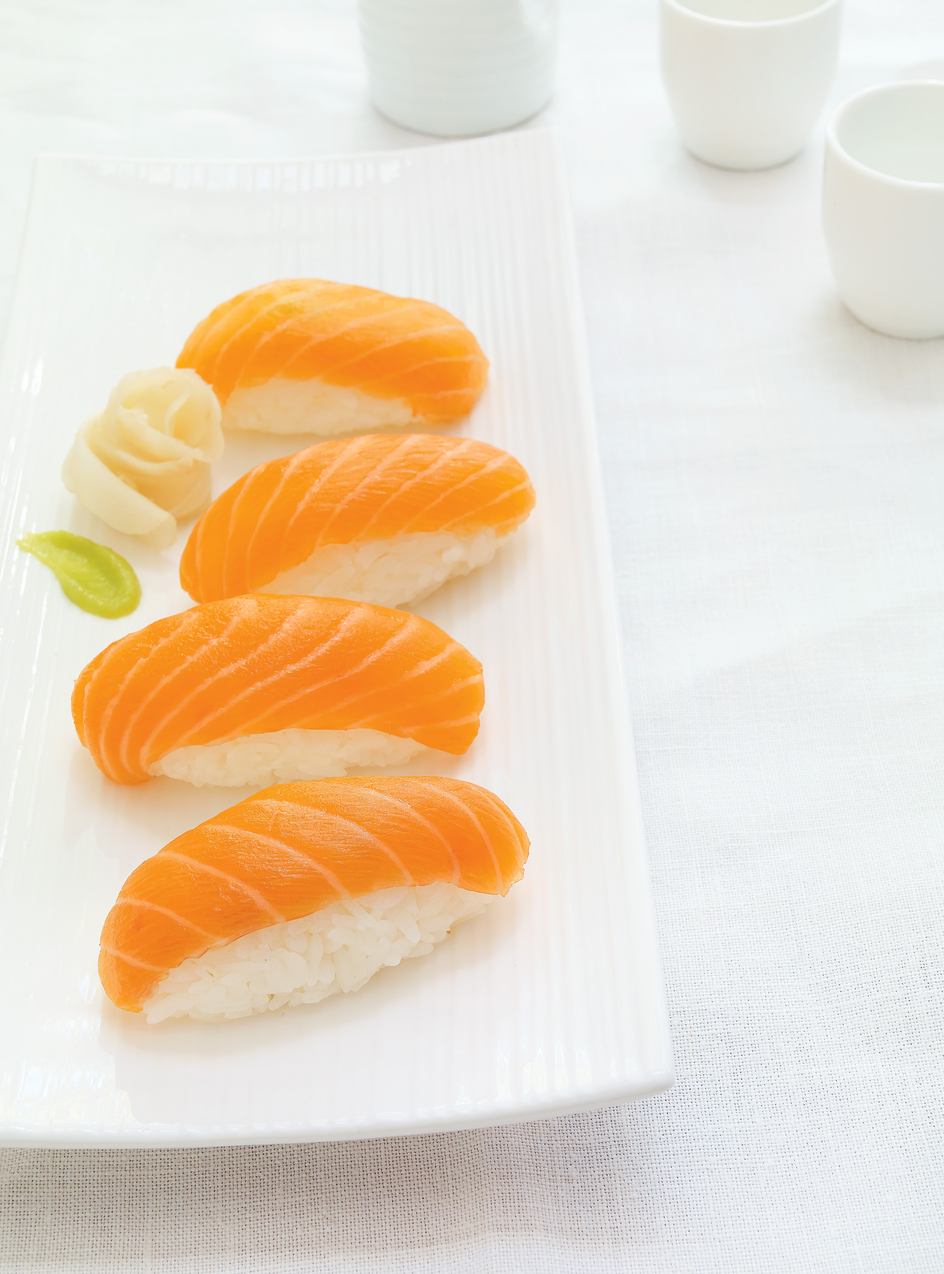
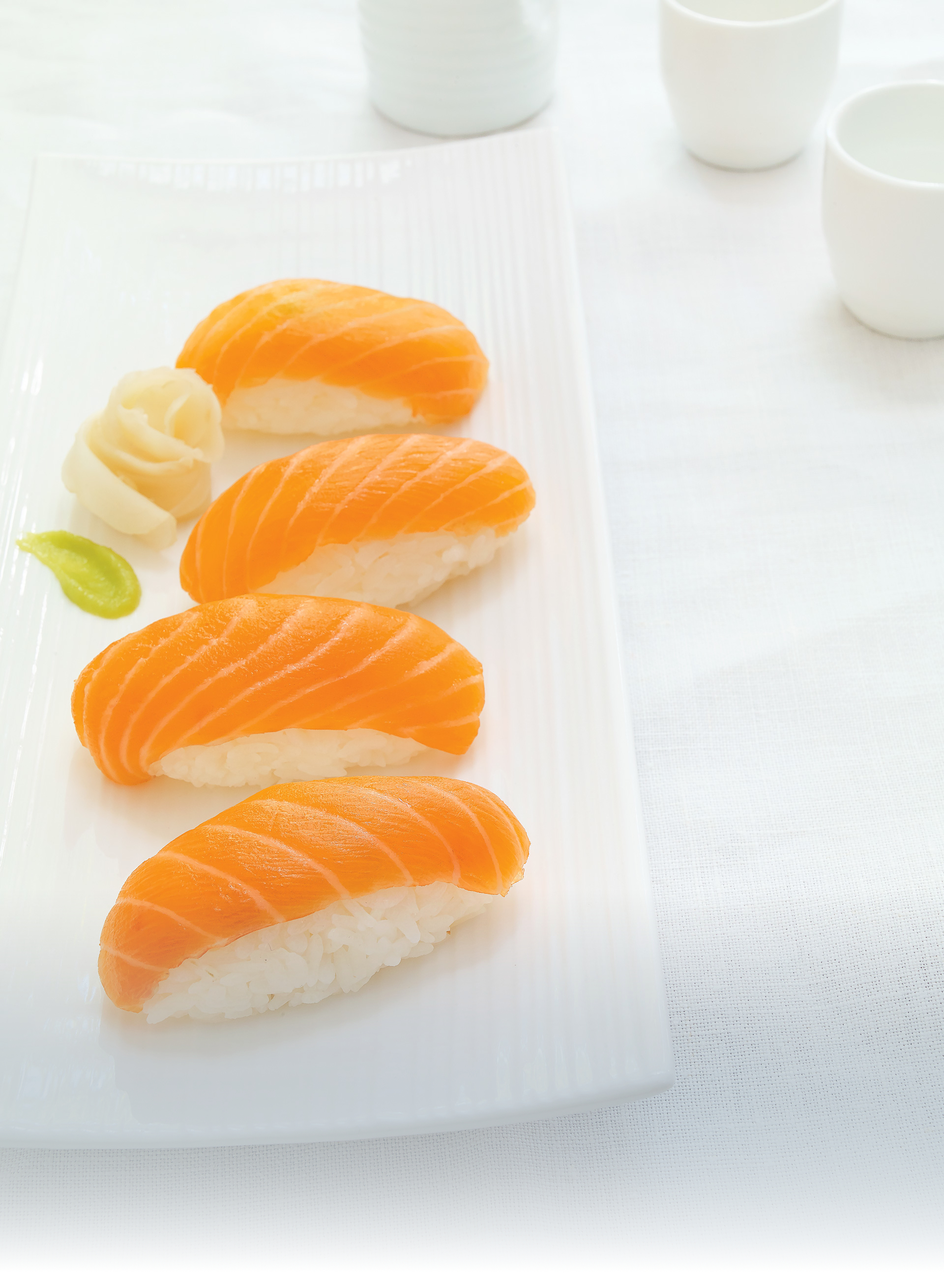
added footer and fixed orientation

Changed region(s): [[0.0, 0.7188, 1.0, 1.0], [0.9375, 0.9688, 1.0, 1.0]]

diff --git a/index.js b/index.js
@@ -1,6 +1,6 @@
 // home page
 let p1 = 'Sushi is a Japanese dish of prepared vinegared rice, usually with some sugar and salt, accompanied by a variety of ingredients, such as seafood, often raw, and vegetables. Styles of sushi and its presentation vary widely, but the one key ingredient is "sushi rice", also referred to as shari or sumeshi.'
-let p2 = "The inventor of modern sushi is believed to be Hanaya Yohei, who invented nigiri-zushi, a type of sushi most known today, in which seafood is placed on hand-pressed vinegared rice, around 1824 in the Edo period (1603 – 1867). It was the fast food of the chōnin class in the Edo period."
+let p2 = "The inventor of modern sushi is believed to be Hanaya Yohei, who invented nigiri, a type of sushi most known today, in which seafood is placed on hand-pressed vinegared rice, around 1824 in the Edo period (1603-1867). It was the fast food of the chōnin class in the Edo period."
 let p3 = "Sushi is traditionally made with medium-grain white rice, though it can be prepared with brown rice or short-grain rice. It is very often prepared with seafood, such as squid, eel, yellowtail, salmon, tuna or imitation crab meat. Many types of sushi are vegetarian. It is often served with pickled ginger (gari), wasabi, and soy sauce. Daikon radish or pickled daikon (takuan) are popular garnishes for the dish."
 let p4 = "Sushi is sometimes confused with sashimi, a similar dish in Japanese cuisine that consists of thinly sliced raw fish or occasionally meat."
 let list1 = [p1,p2,p3,p4];
@@ -18,10 +18,10 @@ for (let i = 0; i < list1.length; i++) {
 }
 
 // history
-let p5 = 'A dish known as narezushi, stored in fermented rice for possibly months at a time, has been cited as one of the early influences for the Japanese practice of applying rice on raw fish. The fish was fermented with rice vinegar, salt, and rice, after which the rice was discarded. The first mention of sushi is in a Chinese dictionary thought to be from the 4th Century, in this instance referring to salted fish that had been placed in cooked or steamed rice, which caused it to undergo a fermentation process. Fermentation methods following similar logic in other Asian rice cultures include prahok , pla ra, burong isda, sikhae, and amazake.'
-let p6 = 'The lacto-fermentation of the rice prevents the fish from spoiling. When wet-field rice cultivation was introduced during the Yayoi period, lakes and rivers would flood during the rainy season, and fish would get caught in the rice paddy fields. Pickling was a way to preserve the excess fish and guarantee food for the following months, and narezushi became an important source of protein for Japanese consumers. The term sushi literally means "sour-tasting", as the overall dish has a sour and umami or savory taste. The term comes from an antiquated shi terminal-form conjugation, no longer used in other contexts, of the adjectival verb sui, resulting in the term sushi. Narezushi still exists as a regional specialty, notably as funa-zushi from Shiga Prefecture. Vinegar was first added to the preparation of narezushi in the Muromachi period (1336 – 1573) for the sake of enhancing both taste and preservation. In addition to increasing the rice\'s sourness, the vinegar significantly increased the dish\'s longevity, causing the fermentation process to be shortened and eventually abandoned. The primitive sushi would be further developed in Osaka, where over several centuries, it became oshi-zushi or hako-zushi; in this preparation, the seafood and rice were pressed into shape with wooden (typically bamboo) molds.'
-let p7 = 'It was not until the Edo period (1603 – 1868) that fresh fish was served over vinegared rice and nori. The particular style of today\'s nigirizushi became popular in Edo (contemporary Tokyo) in the 1820s or 1830s. One common story of nigirizushi\'s origins is of the chef Hanaya Yohei (1799–1858), who invented or perfected the technique in 1824 at his shop in Ryōgoku.[11] The dish was originally termed Edomae zushi as it used freshly caught fish from the Edo-mae (Edo or Tokyo Bay); the term Edomae nigirizushi is still used today as a by-word for quality sushi, regardless of its ingredients\' origins.'
-let p8 = 'The earliest written mention of sushi in English described in the Oxford English Dictionary is in an 1893 book, A Japanese Interior, where it mentions sushi as "a roll of cold rice with fish, sea-weed, or some other flavoring". There is an earlier mention of sushi in James Hepburn\'s Japanese–English dictionary from 1873, and an 1879 article on Japanese cookery in the journal Notes and Queries.'
+let p5 = 'A dish known as nare, stored in fermented rice for possibly months at a time, has been cited as one of the early influences for the Japanese practice of applying rice on raw fish. The fish was fermented with rice vinegar, salt, and rice, after which the rice was discarded. The first mention of sushi is in a Chinese dictionary thought to be from the 4th Century, in this instance referring to salted fish that had been placed in cooked or steamed rice, which caused it to undergo a fermentation process. Fermentation methods following similar logic in other Asian rice cultures include prahok , pla ra, burong isda, sikhae, and amazake.'
+let p6 = 'The lacto-fermentation of the rice prevents the fish from spoiling. When wet-field rice cultivation was introduced during the Yayoi period, lakes and rivers would flood during the rainy season, and fish would get caught in the rice paddy fields. Pickling was a way to preserve the excess fish and guarantee food for the following months, and nare became an important source of protein for Japanese consumers. The term sushi literally means "sour-tasting", as the overall dish has a sour and umami or savory taste. The term comes from an antiquated shi terminal-form conjugation, no longer used in other contexts, of the adjectival verb sui, resulting in the term sushi. Nare still exists as a regional specialty, notably as funa from Shiga Prefecture. Vinegar was first added to the preparation of nare in the Muromachi period (1336-1573) for the sake of enhancing both taste and preservation. In addition to increasing the rice\'s sourness, the vinegar significantly increased the dish\'s longevity, causing the fermentation process to be shortened and eventually abandoned. The primitive sushi would be further developed in Osaka, where over several centuries, it became oshi or hako; in this preparation, the seafood and rice were pressed into shape with wooden (typically bamboo) molds.'
+let p7 = 'It was not until the Edo period (1603-1868) that fresh fish was served over vinegared rice and nori. The particular style of today\'s nigiri became popular in Edo (contemporary Tokyo) in the 1820s or 1830s. One common story of nigiri\'s origins is of the chef Hanaya Yohei (1799-1858), who invented or perfected the technique in 1824 at his shop in Ryōgoku. The dish was originally termed Edomae as it used freshly caught fish from the Edo-mae (Edo or Tokyo Bay); the term Edomae nigiri is still used today as a by-word for quality sushi, regardless of its ingredients\' origins.'
+let p8 = 'The earliest written mention of sushi in English described in the Oxford English Dictionary is in an 1893 book, A Japanese Interior, where it mentions sushi as "a roll of cold rice with fish, sea-weed, or some other flavoring". There is an earlier mention of sushi in James Hepburn\'s Japanese-English dictionary from 1873, and an 1879 article on Japanese cookery in the journal Notes and Queries.'
 let list2 = [p5,p6,p7,p8];
 let historyPage = document.getElementsByClassName('content-wrapper')[1];
 for (let i = 0; i < list2.length; i++) {
@@ -37,26 +37,26 @@ for (let i = 0; i < list2.length; i++) {
 }
 
 // types
-let p9 = "The common ingredient in all types of sushi is vinegared sushi rice. Fillings, toppings, condiments, and preparation vary widely. Due to rendaku consonant mutation, sushi is pronounced with zu instead of su when a prefix is attached, as in nigirizushi."
+let p9 = "The common ingredient in all types of sushi is vinegared sushi rice. Fillings, toppings, condiments, and preparation vary widely. Due to rendaku consonant mutation, sushi is pronounced with zu instead of su when a prefix is attached, as in nigiri."
 let h1 = "<h2>Chirashi</h2>"
-let p10 = "Chirashizushi serves the rice in a bowl and tops it with a variety of raw fish and vegetable garnishes. It is popular because it is filling, fast, and easy to make. It is eaten annually on Hinamatsuri in March and Kodomonohi in May."
+let p10 = "Chirashi serves the rice in a bowl and tops it with a variety of raw fish and vegetable garnishes. It is popular because it is filling, fast, and easy to make. It is eaten annually on Hinamatsuri in March and Kodomonohi in May."
 let h2 = "<h2>Inari</h2>"
-let p11 = "Inarizush is a pouch of fried tofu typically filled with sushi rice alone. According to Shinto lore, inarizushi is named after the god Inari. Foxes, messengers of Inari, are believed to have a fondness for fried tofu, and an inarizushi roll has pointed corners that resemble fox ears."
+let p11 = "Inarizush is a pouch of fried tofu typically filled with sushi rice alone. According to Shinto lore, inari is named after the god Inari. Foxes, messengers of Inari, are believed to have a fondness for fried tofu, and an inari roll has pointed corners that resemble fox ears."
 let p12 = "Regional variations include pouches made of a thin omelette instead of tofu. It should not be confused with inari maki, a roll filled with flavored fried tofu."
-let p13 = "Cone sushi is a variant of inarizushi originating in Hawaii that may include green beans, carrots, or gobo along with rice, wrapped in a triangular abura-age piece. It is often sold in okazu-ya (Japanese delis) and as a component of bento boxes."
+let p13 = "Cone sushi is a variant of inari originating in Hawaii that may include green beans, carrots, or gobo along with rice, wrapped in a triangular abura-age piece. It is often sold in okazu-ya (Japanese delis) and as a component of bento boxes."
 let h3 = "<h2>Maki</h2>"
-let p14 = "Makizushi, norimaki or makimono is a cylindrical piece formed with the help of a mat known as a makisu. Makizushi is generally wrapped in nori (seaweed) but is occasionally wrapped in a thin omelette, soy paper, cucumber, or shiso (perilla) leaves. Makizushi is often cut into six or eight pieces, constituting a single roll order. Short-grain white rice is usually used, although short-grain brown rice, like olive oil on nori, is now becoming more widespread among the health-conscious. Rarely, sweet rice is mixed in makizushi rice."
-let p15 = "Nowadays, the rice in makizushi can be many kinds of black rice, boiled rice, and cereals. Besides the common ingredients listed above, some varieties may include cheese, spicy cooked squid, yakiniku, kamaboko, lunch meat, sausage, bacon or spicy tuna. The nori may be brushed with sesame oil or sprinkled with sesame seeds. In a variation, sliced pieces of makizushi may be lightly fried with egg coating."
+let p14 = "Maki, norimaki or makimono is a cylindrical piece formed with the help of a mat known as a makisu. Maki is generally wrapped in nori (seaweed) but is occasionally wrapped in a thin omelette, soy paper, cucumber, or shiso (perilla) leaves. Maki is often cut into six or eight pieces, constituting a single roll order. Short-grain white rice is usually used, although short-grain brown rice, like olive oil on nori, is now becoming more widespread among the health-conscious. Rarely, sweet rice is mixed in maki rice."
+let p15 = "Nowadays, the rice in maki can be many kinds of black rice, boiled rice, and cereals. Besides the common ingredients listed above, some varieties may include cheese, spicy cooked squid, yakiniku, kamaboko, lunch meat, sausage, bacon or spicy tuna. The nori may be brushed with sesame oil or sprinkled with sesame seeds. In a variation, sliced pieces of maki may be lightly fried with egg coating."
 let h4 = "<h2>Modern-Nare</h2>"
-let p16 = "Narezushi is a traditional form of fermented sushi. Skinned and gutted fish are stuffed with salt, placed in a wooden barrel, doused with salt again, then weighed down with a heavy tsukemonoishi (pickling stone). As days pass, water seeps out and is removed. After six months, this sushi can be eaten, remaining edible for another six months or more."
-let p17 = "The most famous variety of narezushi are the ones offered as a specialty dish of Shiga Prefecture, particularly the funa-zushi made from fish of the crucian carp genus, the authentic version of which calls for the use of nigorobuna, a particular locally differentiated variety of wild goldfish endemic to Lake Biwa."
+let p16 = "Nare is a traditional form of fermented sushi. Skinned and gutted fish are stuffed with salt, placed in a wooden barrel, doused with salt again, then weighed down with a heavy tsukemonoishi (pickling stone). As days pass, water seeps out and is removed. After six months, this sushi can be eaten, remaining edible for another six months or more."
+let p17 = "The most famous variety of nare are the ones offered as a specialty dish of Shiga Prefecture, particularly the funa made from fish of the crucian carp genus, the authentic version of which calls for the use of nigorobuna, a particular locally differentiated variety of wild goldfish endemic to Lake Biwa."
 let h5 = "<h2>Nigiri</h2>"
-let p18 = "Nigirizushi consists of an oblong mound of sushi rice that a chef typically presses between the palms of the hands to form an oval-shaped ball and a topping (the neta) draped over the ball. It is usually served with a bit of wasabi; toppings are typically fish such as salmon, tuna, or other seafood. Certain toppings are typically bound to the rice with a thin strip of nori, most commonly octopus (tako), freshwater eel (unagi), sea eel (anago), squid (ika), and sweet egg (tamago)."
-let p19 = "Gunkanmaki [ja] is a special type of nigirizushi: an oval, hand-formed clump of sushi rice that has a strip of nori wrapped around its perimeter to form a vessel that is filled with some soft, loose or fine-chopped ingredient that requires the confinement of nori such as roe, nattō, oysters, uni (sea urchin roe), sweetcorn with mayonnaise, scallops, and quail eggs. Gunkan-maki was invented at the Ginza Kyubey restaurant in 1941; its invention significantly expanded the repertoire of soft toppings used in sushi."
-let p20 = "Temarizushi is a style of sushi made by pressing rice and fish into a ball-shaped form by hand using a plastic wrap."
+let p18 = "Nigiri consists of an oblong mound of sushi rice that a chef typically presses between the palms of the hands to form an oval-shaped ball and a topping (the neta) draped over the ball. It is usually served with a bit of wasabi; toppings are typically fish such as salmon, tuna, or other seafood. Certain toppings are typically bound to the rice with a thin strip of nori, most commonly octopus (tako), freshwater eel (unagi), sea eel (anago), squid (ika), and sweet egg (tamago)."
+let p19 = "Gunkanmaki [ja] is a special type of nigiri: an oval, hand-formed clump of sushi rice that has a strip of nori wrapped around its perimeter to form a vessel that is filled with some soft, loose or fine-chopped ingredient that requires the confinement of nori such as roe, nattō, oysters, uni (sea urchin roe), sweetcorn with mayonnaise, scallops, and quail eggs. Gunkan-maki was invented at the Ginza Kyubey restaurant in 1941; its invention significantly expanded the repertoire of soft toppings used in sushi."
+let p20 = "Temari is a style of sushi made by pressing rice and fish into a ball-shaped form by hand using a plastic wrap."
 let h6 = "<h2>Oshi</h2>"
-let p21 = "Oshizushi, also known as hako-zushi, is a pressed sushi from the Kansai region, a favorite and specialty of Osaka. A block-shaped piece is formed using a wooden mold, called an oshibako. The chef lines the bottom of the oshibako with the toppings, covers them with sushi rice, and then presses the mold's lid to create a compact, rectilinear block. The block is removed from the mold and then cut into bite-sized pieces. Particularly famous is battera or saba zushi. In oshizushi, all the ingredients are either cooked or cured, and raw fish is never used."
-let p22 = "Oshizushi wrapped in persimmon leaves, a specialty of Nara, is known as kakinohazushi."
+let p21 = "Oshi, also known as hako, is a pressed sushi from the Kansai region, a favorite and specialty of Osaka. A block-shaped piece is formed using a wooden mold, called an oshibako. The chef lines the bottom of the oshibako with the toppings, covers them with sushi rice, and then presses the mold's lid to create a compact, rectilinear block. The block is removed from the mold and then cut into bite-sized pieces. Particularly famous is battera or saba. In oshi, all the ingredients are either cooked or cured, and raw fish is never used."
+let p22 = "Oshiz wrapped in persimmon leaves, a specialty of Nara, is known as kakinoha."
 let list3 = [p9,h1,p10,h2,p11,p12,p13,h3,p14,p15,h4,p16,p17,h5,p18,p19,p20,h6,p21,p22];
 let typesPage = document.getElementsByClassName('content-wrapper')[2];
 for (let i = 0; i < list3.length; i++) {
@@ -73,7 +73,7 @@ for (let i = 0; i < list3.length; i++) {
 
 // west
 let p23 = "The increasing popularity of sushi worldwide has resulted in variations typically found in the Western world but rarely in Japan. A notable exception to this is the use of salmon. The Japanese have eaten salmon since prehistory; however, caught salmon in nature often contains parasites and must be cooked or cured for its lean meat to be edible. On the other side of the world, in the 1960s and 1970s, Norwegian entrepreneurs started experimenting with aquaculture farming. The big breakthrough was when they figured out how to raise salmon in net pens in the sea. Being farm-raised, the Atlantic salmon reportedly showed advantages over the Pacific salmon, such as no parasites, easy animal capture, and could be grown with higher fat content. With government subsidies and improved techniques, they were so successful in raising fatty and parasite-free salmon they ended up with a surplus. Norway has a small population and limited market; therefore, they looked to other countries to export their salmon. The first Norwegian salmon was imported into Japan in 1980, accepted conventionally, for grilling, not for sushi. Salmon had already been consumed in North America as an ingredient in sushi as early as the 1970s. Salmon sushi did not become widely accepted in Japan until a successful marketing partnership in the late 1980s between a Norwegian businessman tasked with helping the Norwegian salmon industry and the Japanese food supplier Nichirei."
-let p24 = "Other sushi creations to suit the Western palate were initially fueled by the invention of the California roll (a norimaki with crab or imitation crab, cucumber, and avocado). A wide variety of popular rolls (norimaki and uramaki) have evolved since. 'Norway roll' is another variant of uramakizushi filled with tamago (omelette), imitation crab and cucumber, rolled with shiso leaf and nori, topped with slices of Norwegian salmon, garnished with lemon and mayonnaise."
+let p24 = "Other sushi creations to suit the Western palate were initially fueled by the invention of the California roll (a norimaki with crab or imitation crab, cucumber, and avocado). A wide variety of popular rolls (norimaki and uramaki) have evolved since. 'Norway roll' is another variant of uramaki filled with tamago (omelette), imitation crab and cucumber, rolled with shiso leaf and nori, topped with slices of Norwegian salmon, garnished with lemon and mayonnaise."
 let h7 = "<h2>Uramaki</h2>"
 let p25 = "Uramaki is a medium-sized cylindrical style of sushi with two or more fillings and was developed as a result of the creation of the California roll, as a method originally meant to hide the nori. Uramaki differs from other makimono because the rice is on the outside and the nori inside. The filling is surrounded by nori, then a layer of rice, and optionally an outer coating of some other ingredients such as roe or toasted sesame seeds. It can be made with different fillings, such as tuna, crab meat, avocado, mayonnaise, cucumber, or carrots."
 let p26 = "Examples of variations include the rainbow roll (an inside-out topped with thinly sliced maguro, hamachi, ebi, sake and avocado) and the caterpillar roll (an inside-out topped with thinly sliced avocado). Also commonly found is the \"rock and roll\" (an inside-out roll with barbecued freshwater eel and avocado with toasted sesame seeds on the outside)."
@@ -84,7 +84,7 @@ let p29 = "Multiple-filling rolls inspired by futomaki are a more popular type o
 let p30 = "Per Food and Drug Administration regulations, raw fish served in the United States must be frozen before serving to kill parasites."
 let p31 = "Since rolls are often made to order, it is not unusual for the customer to specify the exact ingredients desired (e.g., salmon roll, cucumber roll, avocado roll, tuna roll, shrimp or tuna tempura roll, etc.)."
 let h9 = "<h2>Canada</h2>"
-let p32 = "Many of the styles seen in the United States are also seen in Canada and their own. Doshi (a portmanteau of sushi and donut) is a donut-shaped rice ball on a deep-fried crab or imitation crab cake topped with sushi ingredients.[67] Maki Poutine is similar to makizushi in style except it is topped with cheese curds and gravy and contains duck confit, more cheese curds, and sweet potato tempura.[68] Sushi cake is made of crab meat, avocado, shiitake mushroom, salmon, spicy tuna, and tobiko and served on sushi rice then torched with spicy mayo, BBQ sauce, balsamic reduction, and dotted with caper and garlic chips. Sushi pizza is deep fried rice or crab/imitation crab cake topped with mayo and various sushi ingredients."
+let p32 = "Many of the styles seen in the United States are also seen in Canada and their own. Doshi (a portmanteau of sushi and donut) is a donut-shaped rice ball on a deep-fried crab or imitation crab cake topped with sushi ingredients. Maki Poutine is similar to maki in style except it is topped with cheese curds and gravy and contains duck confit, more cheese curds, and sweet potato tempura. Sushi cake is made of crab meat, avocado, shiitake mushroom, salmon, spicy tuna, and tobiko and served on sushi rice then torched with spicy mayo, BBQ sauce, balsamic reduction, and dotted with caper and garlic chips. Sushi pizza is deep fried rice or crab/imitation crab cake topped with mayo and various sushi ingredients."
 let h10 = "<h2>Mexico/Western-U.S.</h2>"
 let p33 = "Sinaloan sushi originated in Sinaloa, Mexico and has been available in the Western United States since 2013."
 let list4 = [p23,p24,h7,p25,p26,p27,p28,h8,p29,p30,p31,h9,p32,h10,p33];
@@ -111,7 +111,7 @@ let h12 = "<h2>Nori</h2>"
 let p38 = "The dark green seaweed wrappers used in makimono are called nori. Nori is a type of algae traditionally cultivated in the harbors of Japan. Originally, algae was scraped from dock pilings, rolled out into thin, edible sheets, and dried in the sun, similar to making rice paper. Today, the commercial product is farmed, processed, toasted, packaged, and sold in sheets."
 let p39 = "The size of a nori sheet influences the size of makimono. A full-size sheet produces futomaki, and a half produces hosomaki and temaki. To produce gunkan and some other makimono, an appropriately-sized piece of nori is cut from a whole sheet."
 let p40 = "Nori by itself is an edible snack and is available with salt or flavored with teriyaki sauce. The flavored variety, however, tends to be of lesser quality and is not suitable for sushi."
-let p41 = "When making fukusazushi, a paper-thin omelette may replace a sheet of nori as the wrapping. The omelette is traditionally made on a rectangular omelette pan, known as a makiyakinabe, and used to form the pouch for the rice and fillings."
+let p41 = "When making fukusa, a paper-thin omelette may replace a sheet of nori as the wrapping. The omelette is traditionally made on a rectangular omelette pan, known as a makiyakinabe, and used to form the pouch for the rice and fillings."
 let h13 = "<h2>Gu</h2>"
 let p42 = "The ingredients used inside sushi are called gu and are, typically, varieties of fish. For culinary, sanitary, and aesthetic reasons, the minimum quality and freshness of fish to be eaten raw must be superior to that of fish which is to be cooked. Sushi chefs are trained to recognize important attributes, including smell, color, firmness, and freedom from parasites that may go undetected in a commercial inspection. Commonly used fish are tuna (maguro, shiro-maguro), Japanese amberjack, yellowtail (hamachi), snapper (kurodai), mackerel (saba), and salmon (sake). The most valued sushi ingredient is toro, the fatty cut of the fish. This comes in a variety of ōtoro (often from the bluefin species of tuna) and chūtoro, meaning \"middle toro\", implying that it is halfway into the fattiness between toro and the regular cut. Aburi style refers to nigiri sushi, where the fish is partially grilled (topside) and partially raw. Most nigiri sushi will have completely raw toppings, called neta."
 let p43 = "Other seafoods such as squid (ika), eel (anago and unagi), pike conger (hamo), octopus (tako), shrimp (ebi and amaebi), clam (mirugai, aoyagi and akagai), fish roe (ikura, masago, kazunoko and tobiko), sea urchin (uni), crab (kani), and various kinds of shellfish (abalone, prawn, scallop) are the most popular seafoods in sushi. Oysters are less common, as the taste is thought to not go well with the rice. Kani kama, or imitation crab stick, is commonly substituted for real crab, most notably in California rolls."
@@ -119,7 +119,7 @@ let p44 = "Pickled daikon radish (takuan) in shinko maki, pickled vegetables (ts
 let p45 = "Tofu, eggs (in the form of slightly sweet, layered omelette called tamagoyaki), and raw quail eggs (as a gunkan-maki topping) are also common."
 let h14 = "<h2>Condiments</h2>"
 let p46 = "Sushi is commonly eaten with condiments. Sushi may be dipped in shōyu (soy sauce), and is usually flavored with wasabi, a piquant paste made from the grated stem of the Wasabia japonica plant. Japanese-style mayonnaise is a common condiment in Japan on salmon, pork, and other sushi cuts."
-let p47 = "The traditional grating tool for wasabi is a sharkskin grater or samegawa oroshi. An imitation wasabi (seiyo-wasabi), made from horseradish, mustard powder, and green dye, is common. It is found at lower-end kaiten-zushi restaurants, in bento box sushi, and at most restaurants outside Japan. If manufactured in Japan, it may be labelled \"Japanese Horseradish\". The spicy compound in both true and imitation wasabi is allyl isothiocyanate, which has well-known anti-microbial properties. However, true wasabi may contain some other antimicrobials as well."
+let p47 = "The traditional grating tool for wasabi is a sharkskin grater or samegawa oroshi. An imitation wasabi (seiyo-wasabi), made from horseradish, mustard powder, and green dye, is common. It is found at lower-end kaiten restaurants, in bento box sushi, and at most restaurants outside Japan. If manufactured in Japan, it may be labelled \"Japanese Horseradish\". The spicy compound in both true and imitation wasabi is allyl isothiocyanate, which has well-known anti-microbial properties. However, true wasabi may contain some other antimicrobials as well."
 let p48 = "Gari (sweet, pickled ginger) is eaten in between sushi courses to both cleanse the palate and aid in digestion. In Japan, green tea (ocha) is invariably served together with sushi. Better sushi restaurants often use a distinctive premium tea known as mecha. In sushi vocabulary, green tea is known as agari."
 let p49 = "Sushi may be garnished with gobo, grated daikon, thinly-sliced vegetables, carrots, radishes, and cucumbers that have been shaped to look like flowers, real flowers, or seaweed salad."
 let p50 = "When closely arranged on a tray, different pieces are often separated by green strips called baran or kiri-zasa. These dividers prevent the flavors of neighboring pieces of sushi from mixing and help to achieve an attractive presentation. Originally, these were cut leaves from the Aspidistra elatior and Sasa veitchii plants, respectively. Using actual leaves had the added benefit of releasing antimicrobial phytoncides when cut, thereby extending the limited shelf life of the sushi."
@@ -140,15 +140,15 @@ for (let i = 0; i < list5.length; i++) {
 
 // risks
 let p52 = "Potential chemical and biological hazards in sushi include environmental contaminants, pathogens, and toxins."
-let p53 = "Large marine apex predators such as tuna (especially bluefin) can harbor high levels of methylmercury, one of many toxins of marine pollution. Frequent or significantly large consumption of methylmercury can lead to developmental defects when consumed by certain higher-risk groups, including women who are pregnant or may become pregnant, nursing mothers, and young children.[87] A 2021 study in Catalonia, Spain reported that the estimated exposure to methylmercury in sushi consumption by adolescents exceeded the tolerable daily intake."
-let p54 = "A 2011 article reported approximately 18 million people infected with fish-borne flukes worldwide. Such an infection can be dangerous for expecting mothers due to the health risks that medical interventions or treatment measures may pose on the developing fetus. Parasitic infections can have a wide range of health impacts, including bowel obstruction, anemia, liver disease, and more.[89] These illnesses' impact can pose health concerns for the expecting mother and baby."
+let p53 = "Large marine apex predators such as tuna (especially bluefin) can harbor high levels of methylmercury, one of many toxins of marine pollution. Frequent or significantly large consumption of methylmercury can lead to developmental defects when consumed by certain higher-risk groups, including women who are pregnant or may become pregnant, nursing mothers, and young children. A 2021 study in Catalonia, Spain reported that the estimated exposure to methylmercury in sushi consumption by adolescents exceeded the tolerable daily intake."
+let p54 = "A 2011 article reported approximately 18 million people infected with fish-borne flukes worldwide. Such an infection can be dangerous for expecting mothers due to the health risks that medical interventions or treatment measures may pose on the developing fetus. Parasitic infections can have a wide range of health impacts, including bowel obstruction, anemia, liver disease, and more. These illnesses' impact can pose health concerns for the expecting mother and baby."
 let p55 = "Sashimi or other types of sushi containing raw fish present a risk of infection by three main types of parasites:"
 let l1 = "<li>Clonorchis-sinensis</li>"
 let l2 = "<li>Anisakis</li>"
 let l3 = "<li>Diphyllobothrium</li>"
-let p56 = "For these reasons, EU regulations forbid using raw fish that had not previously been frozen. It must be frozen at temperatures below −20 °C (−4 °F) in all product parts for no less than 24 hours. Fish for sushi may be flash frozen on fishing boats and by suppliers to temperatures as low as −60 °C (−76 °F).[94] Super-freezing destroys parasites, and also prevents oxidation of the blood in tuna flesh that causes discoloration at temperatures above −20 °C (−4 °F)."
+let p56 = "For these reasons, EU regulations forbid using raw fish that had not previously been frozen. It must be frozen at temperatures below -20 °C (-4 °F) in all product parts for no less than 24 hours. Fish for sushi may be flash frozen on fishing boats and by suppliers to temperatures as low as -60 °C (-76 °F). Super-freezing destroys parasites, and also prevents oxidation of the blood in tuna flesh that causes discoloration at temperatures above -20 °C (-4 °F)."
 let p57 = "Calls for stricter analysis and regulation of seafood include improved product description. A 2021 DNA study in Italy found 30%-40% of fish species in sushi incorrectly described."
-let p58 = "Some forms of sushi, notably those containing the fugu pufferfish and some kinds of shellfish, can cause severe poisoning if not prepared properly. Fugu consumption, in particular, can be fatal. Fugu fish has a lethal dose of tetrodotoxin in its internal organs and, by law in many countries, must be prepared by a licensed fugu chef who has passed the prefectural examination in Japan.[97] Licensing involves a written test, a fish-identification test, and a practical test that involves preparing the fugu and separating out the poisonous organs; only about 35 percent of applicants pass."
+let p58 = "Some forms of sushi, notably those containing the fugu pufferfish and some kinds of shellfish, can cause severe poisoning if not prepared properly. Fugu consumption, in particular, can be fatal. Fugu fish has a lethal dose of tetrodotoxin in its internal organs and, by law in many countries, must be prepared by a licensed fugu chef who has passed the prefectural examination in Japan. Licensing involves a written test, a fish-identification test, and a practical test that involves preparing the fugu and separating out the poisonous organs; only about 35 percent of applicants pass."
 let list6 = [p52,p53,p54,p55,l1,l2,l3,p56,p57,p58];
 let risksPage = document.getElementsByClassName('content-wrapper')[5];
 for (let i = 0; i < list6.length; i++) {

diff --git a/index.html b/index.html
@@ -6,8 +6,32 @@
     </head>
     <body>
         <div id="whole-page">
+            <div id="left-panel">
+                <nav role="navigation">
+                    <ul>
+                        <li>
+                            <img onclick="diffPage(event), diffHeader(event)" src='./pictures/japanese house.jpg' alt="home-page" style="width: 100px; cursor: pointer;"/>
+                        </li>                        
+                        <li>
+                            <img onclick="diffPage(event), diffHeader(event)" src='./pictures/japanese scroll.jpg' alt="history" style="width: 100px; cursor: pointer;"/>
+                        </li>
+                        <li>
+                            <img onclick="diffPage(event), diffHeader(event)" src='./pictures/sushi types.jpg' alt="sushi-types" style="width: 80px; cursor: pointer;"/>
+                        </li>
+                        <li>
+                            <img onclick="diffPage(event), diffHeader(event)" src='./pictures/western sushi.jpg' alt="western-sushi" style="height: 71px; cursor: pointer;"/>
+                        </li>
+                        <li>
+                            <img onclick="diffPage(event), diffHeader(event)" src='./pictures/sushi ingredients.jpg' alt="sushi-ingredients" style="width: 100px; cursor: pointer;"/>
+                        </li>
+                        <li>
+                            <img onclick="diffPage(event), diffHeader(event)" src='./pictures/health risks.jpg' alt="health-risks" style="width: 120px; cursor: pointer;"/>
+                        </li>
+                    </ul>
+                </nav>
+            </div>
             <div>
-                <img src="./pictures/background-sushi.jpg" style="position: fixed; width: 100%; left: 240px; top: -400px">
+                <img src="./pictures/background-sushi.jpg" style="position: fixed; width: calc(100vw - 200px); left: 240px; top: 40px; opacity: 0.5; overflow-x: hidden;">
             </div>
             <div id='main-header' class="website-header">
                 <h1 id="home-page-header" class="not-hidden-header">Sushi</h1>
@@ -22,32 +46,6 @@
                 </form>
             </div>
             <div id="main">
-                <div id="left-panel">
-                    <nav role="navigation">
-                        <div id="sticky-menu">
-                            <ul>
-                                <li>
-                                    <img onclick="diffPage(event), diffHeader(event)" src='./pictures/japanese house.jpg' alt="home-page" style="width: 100px; cursor: pointer;"/>
-                                </li>                        
-                                <li>
-                                    <img onclick="diffPage(event), diffHeader(event)" src='./pictures/japanese scroll.jpg' alt="history" style="width: 100px; cursor: pointer;"/>
-                                </li>
-                                <li>
-                                    <img onclick="diffPage(event), diffHeader(event)" src='./pictures/sushi types.jpg' alt="sushi-types" style="width: 80px; cursor: pointer;"/>
-                                </li>
-                                <li>
-                                    <img onclick="diffPage(event), diffHeader(event)" src='./pictures/western sushi.jpg' alt="western-sushi" style="height: 71px; cursor: pointer;"/>
-                                </li>
-                                <li>
-                                    <img onclick="diffPage(event), diffHeader(event)" src='./pictures/sushi ingredients.jpg' alt="sushi-ingredients" style="width: 100px; cursor: pointer;"/>
-                                </li>
-                                <li>
-                                    <img onclick="diffPage(event), diffHeader(event)" src='./pictures/health risks.jpg' alt="health-risks" style="width: 120px; cursor: pointer;"/>
-                                </li>
-                            </ul>
-                        </div>
-                    </nav>
-                </div>
                 <div id="right-side">
                     <div id='home-page' class="content-wrapper not-hidden">
                     </div>
@@ -62,9 +60,15 @@
                     <div id='health-risks' class="content-wrapper hidden">
                     </div>
                 </div>
-            </div>
-            <div id="page-bottom">
-                <div><p>Footer</p></div>
+                <div id="page-bottom">
+                    <div>
+                        <p>Page last edited by Jeremy Garcia on 20 March 2023.</p>
+                        <br>
+                        <p>References:</p>
+                        <p>Wikipedia, <em>Sushi</em>, last accessed 20 March 2023, <a href='https://en.wikipedia.org/wiki/Sushi/'>https://en.wikipedia.org/wiki/Sushi/</a>.</p>
+                        <br>
+                    </div>
+                </div>
             </div>
         </div>
         <script src="index.js"></script>

diff --git a/style.css b/style.css
@@ -18,41 +18,40 @@ body {
     top: 0;
     font-family: system-ui;
 }
-#left-panel{
+#left-panel {
     background: white;
     position: fixed;
     top: 140px;
     width: 200px;
-    line-height: 5;
+    line-height: 4.4;
     font-size: 15pt;
-    left: 0px;
     z-index: 2;
     border-right: 1px solid pink;
     text-align: center;
     padding-right: 40px;
-    height: 100%;
+    bottom: 0px;
+    margin-left: -9px;
+    overflow-y: scroll;
 }
 #right-side {
     position: relative;
     top: 140px;
     left: 255px;
-    width: 65vw;
+    width: calc(80vw - 200px);
     padding-bottom: 30px;
     line-height: 1.5;
     font-size: 12pt;
     height: 100%
-    z-index: 1;
-
 }
-#sticky-menu ul {
+#left-panel ul {
     list-style-type: none;
 }
 #page-bottom {
     position: relative;
-    bottom: -120px;
     border-top: 1px solid pink;
+    top: 115px;
     width: 100%;
-    left: 233px;
+    left: 230px;
     height: 140px;
     padding-left: 25px;
     padding-top: 5px;
@@ -62,7 +61,6 @@ body {
     top: 90px;
     left: 10px;
     background-color: rgb(219, 166, 175);
-    float: right;
     width: 220px;
     height: 40px;
     border-radius: 5px;
